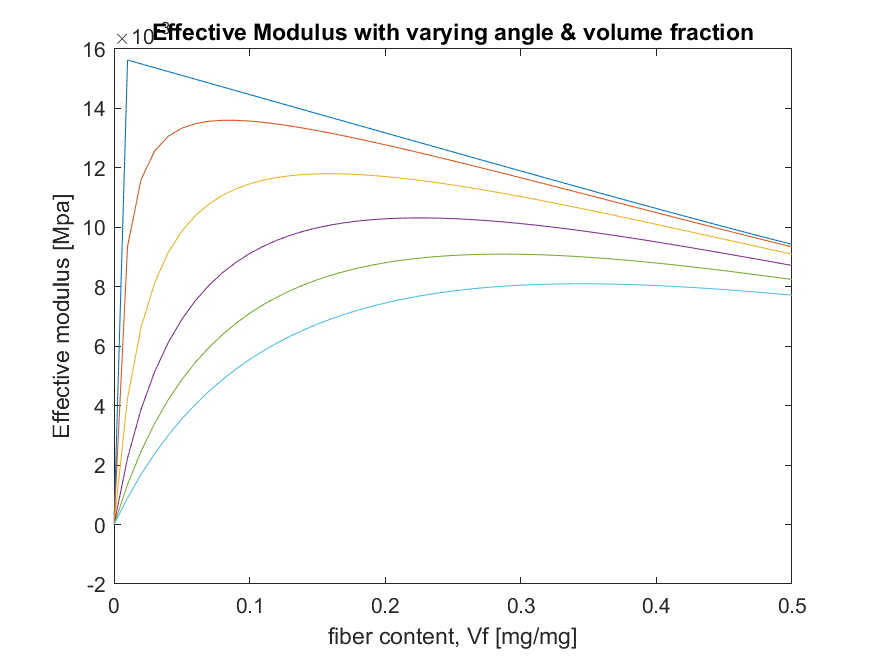
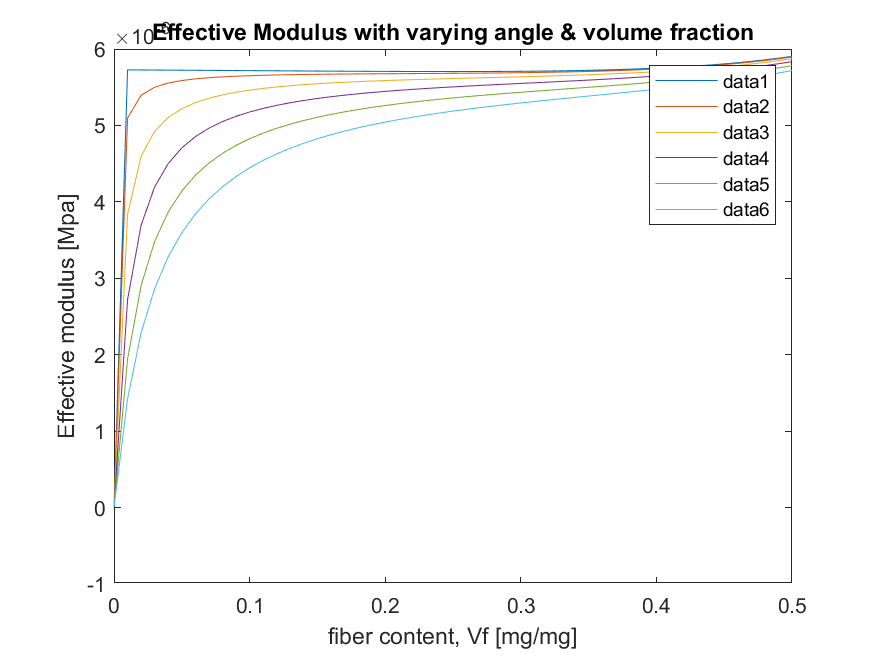
Add files via upload

diff --git a/overall.m b/overall.m
@@ -1,4 +1,4 @@
-% [v_f,m_f] = biochemical_essay(0.4,10.73);%solvent in ml, sample_mass in mg(, tissue_vol in ml)
+[v_f,m_f] = biochemical_essay(0.4,10.73);%solvent in ml, sample_mass in mg(, tissue_vol in ml)
 
 %   [1]         [2]             [3]     [4]        [5]
 %file_name, angle (degrees), width_0, width_1, thickness
@@ -6,12 +6,12 @@ data = ["data/Test Run 1 synthetisch niks.txt",       0, 9.15,  9.14,  1.17;    
         "data/Test Run 2 - 9 rechte fibers.txt",      0, 9.95,  9.91,  1.57;    %run 2
         "data/Test Run 3 synthetisch 70 graden.txt", 70, 9.61,  9.60,  1.5;     %run 3
         "data/Test Run 4 - 10 dubbele fibers.txt",    0, 9.95,  9.91,  1.57;    %run 4
-        "data/Test Run 5 1 vezel.txt",                0, 0.065, 0.064, 0.065;   %run 5
-        "data/Test Run 8 verticaal 1.txt",            0, 0.95,  0.48,  0.22;    %run 6
-        "data/Test Run 9 - 45 graden 1.txt",         45, 3.3,   1.64,  0.9;     %run 7
-        "data/Test Run 8 horizontaal 1.txt",         90, 3.14,  3.03,  0.33;    %run 8
-        "data/Test Run 9 verticaal 2.txt",            0, 4.76,  4.53,  0.91;    %run 9
-        "data/Test Run 10 horizontaal 2.txt",        90, 2.24,  2.12,  0.59];   %run 10
+        %"data/Test Run 5 1 vezel.txt",                0, 0.065, 0.064, 0.065;   %run 5 (verneukt elke grafiek)
+        "data/Test Run 6 verticaal 1.txt",            0, 0.95,  0.48,  0.22;    %run 5
+        "data/Test Run 7 - 45 graden 1.txt",         45, 3.3,   1.64,  0.9;     %run 6
+        "data/Test Run 8 horizontaal 1.txt",         90, 3.14,  3.03,  0.33;    %run 7
+        "data/Test Run 9 verticaal 2.txt",            0, 4.76,  4.53,  0.91;    %run 8
+        "data/Test Run 10 horizontaal 2.txt",        90, 2.24,  2.12,  0.59];   %run 9
 
 %Effective Modulus with varying angle & volume fraction for specific data
 %run
@@ -36,44 +36,48 @@ end
 title('Effective Modulus with varying angle & volume fraction');
 xlabel('fiber content, Vf [mg/mg]');
 ylabel('Effective modulus [Mpa]');
+legend();
 saveas(gcf,'Effective Modulus with varying angle & volume fraction.png');
 
 %Effective Modulus with varying angle
-% % x_angle = 0:1:90;       %Changable var
-% % 
-% % for i = 1:1:size(data,1)%Changable var (set i to 1 or multiple data runs)
-% %     y = [];
-% %     [E_comp, v_m] = stress_strain_test(data(i,1),double(data(i,3)),double(data(i,4)),double(data(i,5)));
-% %     
-% %     for angle = x_angle
-% %         y(end+1) = youngsmodulus(angle, E_comp*(1-v_m), E_comp*v_m, v_m);
-% %     end
-% %     figure(3), plot(x_angle, y);
-% %     hold on
-% % end
-% % 
-% % title('Effective Modulus with varying angles');
-% % xlabel("Angle 'alpha' [degrees]");
-% % ylabel('Effective modulus [Mpa]');
-% % saveas(gcf,'Effective Modulus with varying angle.png');
+x_angle = 0:1:90;       %Changable var
+
+for i = 1:1:size(data,1)%Changable var (set i to 1 or multiple data runs)
+    y = [];
+    disp(i)
+    [E_comp, v_m] = stress_strain_test(data(i,1),double(data(i,3)),double(data(i,4)),double(data(i,5)));
+    
+    for angle = x_angle
+        y(end+1) = youngsmodulus(angle, E_comp*(1-v_m), E_comp*v_m, v_m);
+    end
+    figure(3), plot(x_angle, y);
+    hold on
+end
+
+title('Effective Modulus with varying angles');
+xlabel("Angle 'alpha' [degrees]");
+ylabel('Effective modulus [Mpa]');
+legend();
+saveas(gcf,'Effective Modulus with varying angle.png');
 
 
 %Effective Modulus with varying fiber content
-% % x_vm = 0:0.01:0.5;      %Changable var
-% % 
-% % for i = 1:1:size(data,1)%Changable var (set i to 1 or multiple data runs)
-% %     y = [];
-% %     [E_comp] = stress_strain_test(data(i,1),double(data(i,3)),double(data(i,4)),double(data(i,5)));
-% %     
-% %     for vm = x_vm
-% %         y(end+1) = youngsmodulus(double(data(i,2)), E_comp*(1-v_m), E_comp*v_m, vm);
-% %     end
-% % 
-% %     figure(4), plot(x_vm, y);
-% %     hold on
-% % end
-% % 
-% % title('Effective Modulus with varying angles');
-% % xlabel("Angle 'alpha' [degrees]");
-% % ylabel('Effective modulus [Mpa]');
-% % saveas(gcf,'Effective Modulus with varying fiber content.png');
+x_vm = 0:0.01:0.5;      %Changable var
+
+for i = 1:1:size(data,1)%Changable var (set i to 1 or multiple data runs)
+    y = [];
+    [E_comp] = stress_strain_test(data(i,1),double(data(i,3)),double(data(i,4)),double(data(i,5)));
+    
+    for vm = x_vm
+        y(end+1) = youngsmodulus(double(data(i,2)), E_comp*(1-v_m), E_comp*v_m, vm);
+    end
+
+    figure(4), plot(x_vm, y);
+    hold on
+end
+
+title('Effective Modulus with varying angles');
+xlabel("Angle 'alpha' [degrees]");
+ylabel('Effective modulus [Mpa]');
+legend();
+saveas(gcf,'Effective Modulus with varying fiber content.png');
